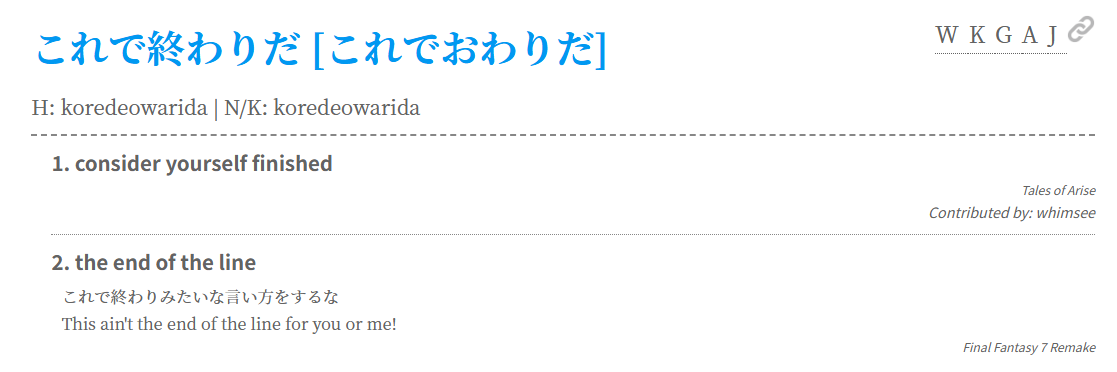
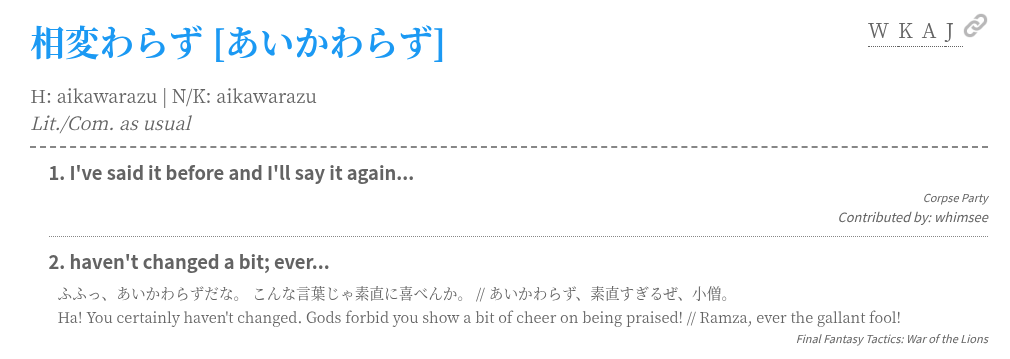
finalizing branch

diff --git a/app/templates/add.html b/app/templates/add.html
@@ -127,15 +127,22 @@
 					<div id="main">
 							<section id="glossary-wrapper" class="main">
 								<div class="add_header">ADD A TERM</div>
-                                <p class="add_description">VERY LONG DESCRIPTION. Sample entry. Info taken from Jisho. Submissions will be displayed like this.
+								<br>
+                                <p class="add_description">
+                                Welcome! Feel free to include any term or definition to the glossary. TERM, KANA, and DEFINITION are required fields. JavaScript must be enabled for mandatory validation. Please note the field restrictions; invalid submissions are automatically rejected.
+                                <br>
+                                </p>
+                                <p class="add_description">Contact me on <a href="https://x.com/jbtenmatay" target="_blank">Twitter</a>, <a href="https://bsky.app/profile/whimsee.bsky.social" target="_blank">Bluesky</a>, or Discord (whimsee#0759) if you need assistance.
+                                <br>
+                                Sample entry. Info taken from Jisho. Submissions will be displayed with fields as below.
                                 </p>
                                 <img src="/images/sample.png" />
 								<section id="glossary-wrapper" class="main">
                                     <div class="fields">
 <!--                                         <form name="add_entry"> -->
                                         <form name="add_entry" action="/submit/" method="post" accept-charset="utf-8">
-                                            <label for="term">TERM</label>
-                                            <section class="description">DESCRIPTION</section>
+                                            <label for="term">** TERM **</label>
+                                            <section class="description">Main Japanese term in hiragana, katakana, or kanji. Can be mixed with English characters.</section>
                                             <input type="text" name="term" id="term" required>
 											<span id="term_checker" class="checker"></span>
 											<script type="text/javascript">
@@ -144,13 +151,13 @@
 														document.querySelector("#term_checker").innerHTML =  "";
 													}
 													else {
-														document.querySelector("#term_checker").innerHTML =  "Mixed EN and JP is okay, as long as it has some JP";
+														document.querySelector("#term_checker").innerHTML =  "Mixed EN and JP is okay, as long as it has JP characters";
 													}
                                                 });
 											</script>
                                             <br><br>
-                                            <label for="kana">KANA</label>
-                                            <section class="description">DESCRIPTION</section>
+                                            <label for="kana">** KANA **</label>
+                                            <section class="description">Kana version of TERM, used as the main index term for searching. Hiragana preferable, but katakana is acceptable if necessary. If TERM contains kanji, this will be displayed inside [] next to the term. Also used for the romaji displayed below the term.</section>
                                             <input type="text" name="kana" id="kana" required>
                                             <span id="kana_checker" class="checker"></span>
 											<script type="text/javascript">
@@ -166,8 +173,8 @@
 
                                             <br><br>
 
-                                            <label for="literal">LITERAL</label>
-                                            <section class="description">DESCRIPTION</section>
+                                            <label for="literal">LITERAL or COMMON MEANING</label>
+                                            <section class="description">English only. Enter literal or commonly misunderstood or false friend interpretations here.</section>
                                             <input type="text" name="literal" id="literal" >
                                             <span id="lit_checker" class="checker"></span>
 											<script type="text/javascript">
@@ -183,8 +190,8 @@
 
                                             <br><br>
 
-                                            <label for="definition">DEFINITION</label>
-                                            <section class="description">DESCRIPTION</section>
+                                            <label for="definition">** DEFINITION **</label>
+                                            <section class="description">English only. Enter proper meaning/s here.</section>
                                             <input type="text" name="definition" id="definition" required>
                                             <span id="def_checker" class="checker"></span>
 											<script type="text/javascript">
@@ -201,25 +208,25 @@
                                             <br><br>
 
                                             <label for="explanation">EXPLANATION</label>
-                                            <section class="description">Contextual Explanation</section>
-                                            <input type="text" name="explanation" id="explanation" >
+                                            <section class="description">Contextual explanation for DEFINITION. Provide details for clarity. 1000 character limit. Single paragraph only. </section>
+                                            <input type="text" name="explanation" id="explanation"  maxlength="1000" >
 
                                             <br><br>
 
                                             <label for="source">SOURCE</label>
-                                            <section class="description">DESCRIPTION</section>
+                                            <section class="description">Provide attribution if possible. Could be a show, game, book, person, link, etc.</section>
                                             <input type="text" name="source" id="source" >
 
                                             <br><br>
 
                                             <label for="jpsam">JP SAMPLE SENTENCE</label>
-                                            <section class="description">DESCRIPTION</section>
+                                            <section class="description">Used to establish context. If provided, an EN translation must be provided in the next field.</section>
                                             <input type="text" name="jpsam" id="jpsam" >
 
                                             <br><br>
 
                                             <label for="ensam">EN SAMPLE SENTENCE</label>
-                                            <section class="description">DESCRIPTION</section>
+                                            <section class="description">Further clarifies how the TERM is used. Can be provided without a JP SAMPLE SENTENCE.</section>
                                             <input type="text" name="ensam" id="ensam" >
 											<span id="ensam_checker" class="checker"></span>
 											<script type="text/javascript">
@@ -236,7 +243,7 @@
                                             <br><br>
 
                                             <label for="contributor">CONTRIBUTOR</label>
-                                            <section class="description">DESCRIPTION</section>
+                                            <section class="description">Personal attribution, if you wish to be credited.</section>
                                             <input type="text" name="contributor" id="contributor">
 
                                             <br><br>

diff --git a/app/css/main.css b/app/css/main.css
@@ -3279,9 +3279,10 @@ input, select, textarea {
 		font-size: 1.1em;
 	}
 
-	p .add_description {
+	p.add_description {
 		font-size: 1em;
 		padding-bottom: 10px;
+		text-align: center;
 	}
 
 	.fields label {

diff --git a/app/main.py b/app/main.py
@@ -191,6 +191,7 @@ async def search(request: Request, term_id: str):
 
     matches = []
     found = False
+    print("Searching:", search_term)
     with Session(engine) as session:
         # Search LIKE
         statement = select(models.Terms).where(col(models.Terms.name).contains(search_term)).offset(0).limit(10)
@@ -337,6 +338,12 @@ async def submit_term(request: Request, submit: Annotated[FormData, Form()]):
     if submit.term == "" or submit.kana == "" or submit.definition == "":
         return templates.TemplateResponse(
             request=request, name="error.html", context={"error" : "Please fill in all required fields."}
+        )
+
+    if submit.jpsam != "":
+        if submit.ensam == "":
+            return templates.TemplateResponse(
+            request=request, name="error.html", context={"error" : "Please provide an EN translation for the JP sample sentence."}
         )
 
     if not wanakana.is_japanese(submit.term):
